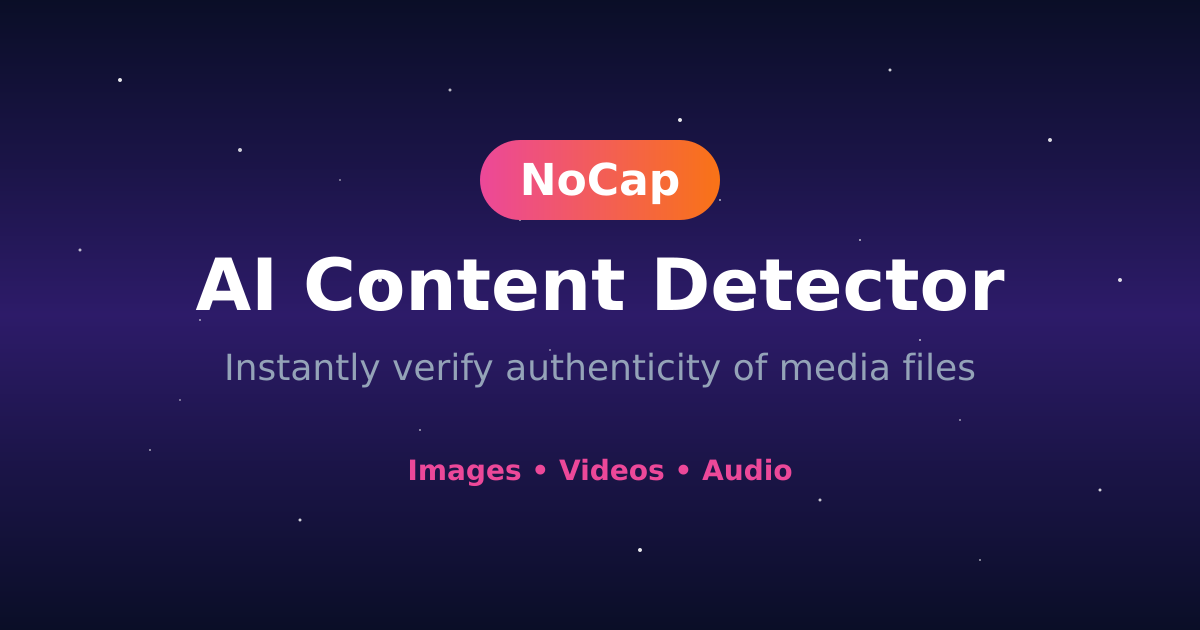
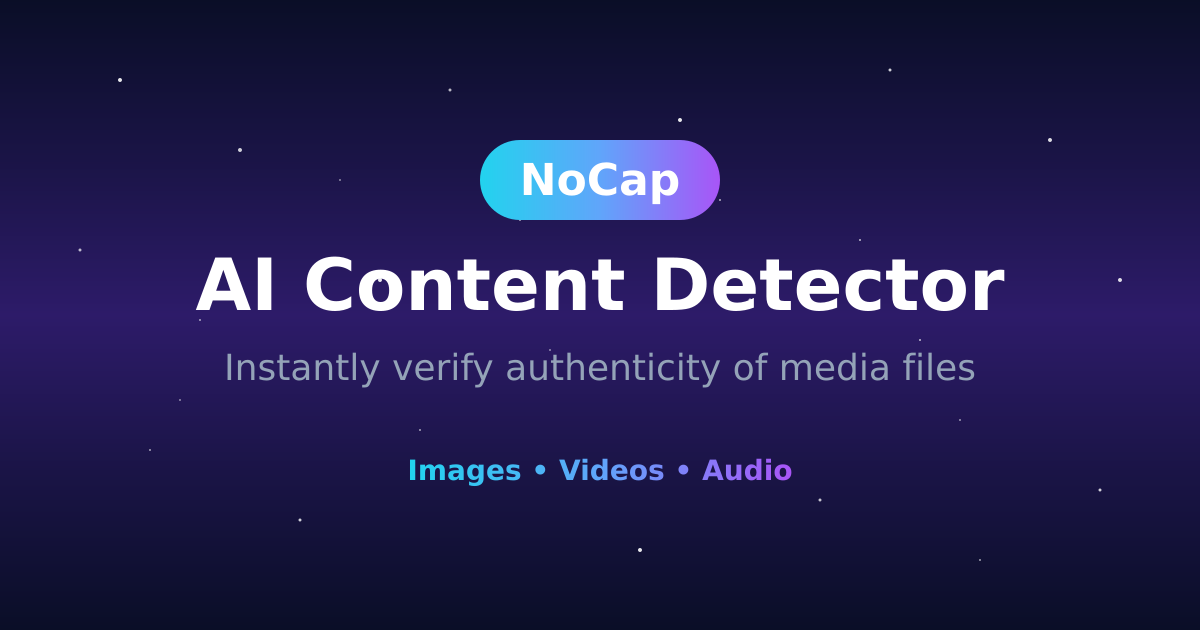
Updated generate-og-image.js

Changed region(s): [[0.4008, 0.2111, 0.6167, 0.3619], [0.3392, 0.7238, 0.6783, 0.7841]]

diff --git a/generate-og-image.js b/generate-og-image.js
@@ -15,8 +15,9 @@ const svgImage = `
       <stop offset="100%" style="stop-color:#0a0e27;stop-opacity:1" />
     </linearGradient>
     <linearGradient id="grad2" x1="0%" y1="0%" x2="100%" y2="0%">
-      <stop offset="0%" style="stop-color:#ec4899;stop-opacity:1" />
-      <stop offset="100%" style="stop-color:#f97316;stop-opacity:1" />
+      <stop offset="0%" style="stop-color:#22d3ee;stop-opacity:1" />
+      <stop offset="50%" style="stop-color:#60a5fa;stop-opacity:1" />
+      <stop offset="100%" style="stop-color:#a855f7;stop-opacity:1" />
     </linearGradient>
   </defs>
 
@@ -94,7 +95,7 @@ const svgImage = `
         font-family="-apple-system, BlinkMacSystemFont, Arial, sans-serif"
         font-size="28"
         font-weight="600"
-        fill="#ec4899"
+        fill="url(#grad2)"
         text-anchor="middle">
     Images  •  Videos  •  Audio
   </text>
